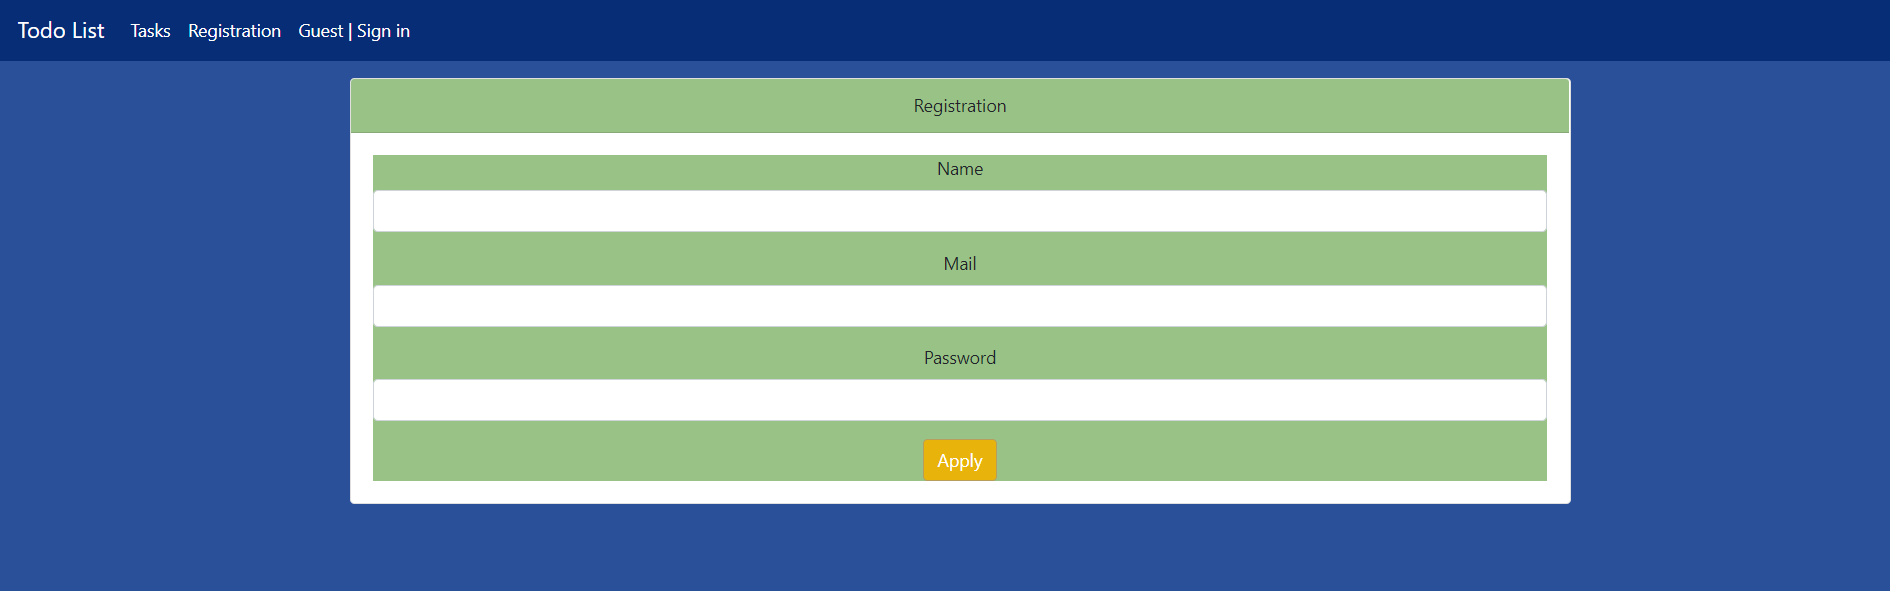
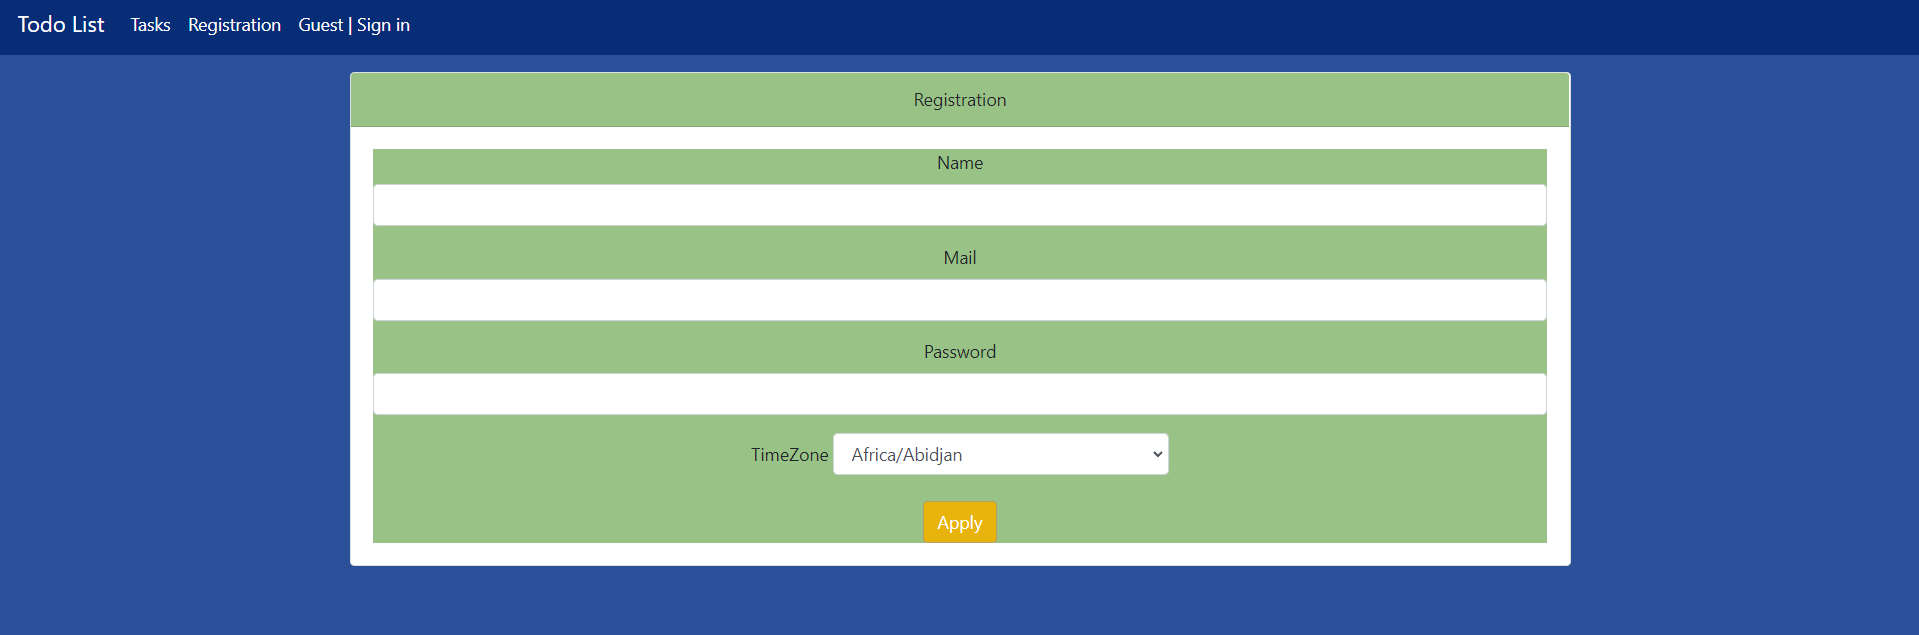
5. Date [#331992 #356708]

diff --git a/src/main/resources/templates/registration.html b/src/main/resources/templates/registration.html
@@ -70,16 +70,25 @@
                 </div>
                 <form th:action="@{/registration}" method="POST" style="background: #99c286">
                     <div class="form-group">
-                        <label>Name</label>
-                        <input type="text" class="form-control" name="name">
+                        <label for="name">Name</label>
+                        <input type="text" class="form-control" name="name" id="name">
                     </div>
                     <div class="form-group">
-                        <label>Mail</label>
-                        <input type="text" class="form-control" name="email">
+                        <label for="email">Mail</label>
+                        <input type="text" class="form-control" name="email" id="email">
                     </div>
                     <div class="form-group">
-                        <label>Password</label>
-                        <input type="text" class="form-control" name="password">
+                        <label for="password">Password</label>
+                        <input type="text" class="form-control" name="password" id="password">
+                    </div>
+                    <div class="form-group">
+                        <label>TimeZone</label>
+                        <label>
+                            <select class="form-control"  name="zone" required>
+                                <option th:each="zone : ${timeZone}" th:value="${zone}"
+                                        th:text="${zone}"></option>
+                            </select>
+                        </label>
                     </div>
                     <button type="submit" class="btn btn-primary">Apply</button>
                 </form>

diff --git a/src/main/java/ru/job4j/todo/controller/UserController.java b/src/main/java/ru/job4j/todo/controller/UserController.java
@@ -3,16 +3,15 @@ package ru.job4j.todo.controller;
 import net.jcip.annotations.ThreadSafe;
 import org.springframework.stereotype.Controller;
 import org.springframework.ui.Model;
-import org.springframework.web.bind.annotation.GetMapping;
-import org.springframework.web.bind.annotation.ModelAttribute;
-import org.springframework.web.bind.annotation.PostMapping;
-import org.springframework.web.bind.annotation.RequestParam;
+import org.springframework.web.bind.annotation.*;
 import ru.job4j.todo.model.User;
 import ru.job4j.todo.service.UserService;
 
 import javax.servlet.http.HttpServletRequest;
 import javax.servlet.http.HttpSession;
+import java.util.ArrayList;
 import java.util.Optional;
+import java.util.TimeZone;
 
 @Controller
 @ThreadSafe
@@ -27,7 +26,12 @@ public class UserController {
 
     @GetMapping("/registration")
     public String addUser(Model model, HttpSession session) {
-        model.addAttribute("newUser", new User(0, VALUE, VALUE, VALUE));
+        var zones = new ArrayList<TimeZone>();
+        for (String timeId : TimeZone.getAvailableIDs()) {
+            zones.add(TimeZone.getTimeZone(timeId));
+        }
+        model.addAttribute("newUser", new User(0, VALUE, VALUE, VALUE, VALUE));
+        model.addAttribute("timeZone", zones.stream().map(TimeZone::getID).toList());
         sessions(model, session);
         return "registration";
     }

diff --git a/src/main/java/ru/job4j/todo/controller/ItemController.java b/src/main/java/ru/job4j/todo/controller/ItemController.java
@@ -14,6 +14,8 @@ import ru.job4j.todo.service.UserService;
 
 import javax.servlet.http.HttpSession;
 import java.time.LocalDateTime;
+import java.time.ZoneId;
+import java.time.format.DateTimeFormatter;
 import java.util.*;
 import java.util.concurrent.atomic.AtomicInteger;
 
@@ -58,14 +60,14 @@ public class ItemController {
     public String createItem(@ModelAttribute Item item,
                              @RequestParam(value = "category.id", required = false) List<Integer> categoriesId,
                              HttpSession session, Model model) {
+        User user = this.userService.findById(this.userId.get());
         Set<Category> categories = new HashSet<>();
         if (categoriesId != null) {
             categoriesId.forEach(value -> categories.add(this.categoryService.findById(value)));
             item.setCategory(categories);
         }
-        item.setCreated(LocalDateTime.now());
-        item.setUser(this.userService.findById(this.userId.get()));
-        this.service.create(item);
+        item.setUser(user);
+        this.service.create(item, user.getZone());
         sessions(model, session);
         return "items";
     }

diff --git a/src/main/java/ru/job4j/todo/repository/ItemRepository.java b/src/main/java/ru/job4j/todo/repository/ItemRepository.java
@@ -1,12 +1,16 @@
 package ru.job4j.todo.repository;
 
+import org.hibernate.Session;
 import org.hibernate.SessionFactory;
 import org.springframework.stereotype.Repository;
 import ru.job4j.todo.model.Item;
+import ru.job4j.todo.model.User;
 import ru.job4j.todo.util.SessionWrapper;
 
 import java.util.List;
 import java.util.NoSuchElementException;
+import java.util.Optional;
+import java.util.TimeZone;
 
 @Repository
 public class ItemRepository {
@@ -19,9 +23,15 @@ public class ItemRepository {
         this.factory = factory;
     }
 
-    public void create(Item item) {
-        SessionWrapper.wrap(session ->
-                session.save(item), factory);
+    public void create(Item item, String timeZone) {
+        try {
+            SessionWrapper.zoneWrap(
+                    session -> session.save(item),
+                    factory, timeZone
+            );
+        } catch (Exception e) {
+            e.printStackTrace();
+        }
     }
 
     public List<Item> findAll() {

diff --git a/src/main/java/ru/job4j/todo/util/SessionWrapper.java b/src/main/java/ru/job4j/todo/util/SessionWrapper.java
@@ -4,12 +4,24 @@ import org.hibernate.Session;
 import org.hibernate.SessionFactory;
 import org.hibernate.Transaction;
 
+import java.util.TimeZone;
 import java.util.function.Function;
 
 public class SessionWrapper {
 
     public static <T> T wrap(Function<Session, T> command, SessionFactory sf) {
         final Session session = sf.openSession();
+        return wrap(command, session);
+    }
+
+    public static <T> void zoneWrap(Function<Session, T> command, SessionFactory sf, String timeZone) {
+        final Session session = sf.withOptions()
+                .jdbcTimeZone(TimeZone.getTimeZone(timeZone))
+                .openSession();
+        wrap(command, session);
+    }
+
+    private static <T> T wrap(Function<Session, T> command, Session session) {
         final Transaction transaction = session.beginTransaction();
         try {
             T rsl = command.apply(session);

diff --git a/src/main/java/ru/job4j/todo/repository/UserRepository.java b/src/main/java/ru/job4j/todo/repository/UserRepository.java
@@ -20,9 +20,8 @@ public class UserRepository {
 
     public Optional<User> create(User user) {
         try {
-            User finalUser = (User) SessionWrapper.wrap(session ->
-                    session.save(user), factory);
-            return Optional.of(finalUser);
+            SessionWrapper.zoneWrap(session -> session.save(user), factory, user.getZone());
+            return Optional.of(user);
         } catch (Exception e) {
             return Optional.empty();
         }

diff --git a/src/main/java/ru/job4j/todo/model/User.java b/src/main/java/ru/job4j/todo/model/User.java
@@ -7,7 +7,8 @@ import lombok.EqualsAndHashCode;
 import lombok.NoArgsConstructor;
 
 import javax.persistence.*;
-import java.io.Serializable;
+
+
 @Data
 @EqualsAndHashCode(onlyExplicitlyIncluded = true)
 @NoArgsConstructor
@@ -22,4 +23,5 @@ public class User {
     private String name;
     private String email;
     private String password;
+    private String zone;
 }

diff --git a/src/main/java/ru/job4j/todo/repository/PriorityRepository.java b/src/main/java/ru/job4j/todo/repository/PriorityRepository.java
@@ -12,7 +12,6 @@ import java.util.List;
 public class PriorityRepository {
 
     private static final String SELECT_ALL_QUERY = "from Priority i order by i.id";
-    private static final String SELECT_BY_ID_QUERY = "from Priority i where i.id = :Id";
     private final SessionFactory factory;
 
     public PriorityRepository(SessionFactory factory) {

diff --git a/src/main/java/ru/job4j/todo/service/ItemService.java b/src/main/java/ru/job4j/todo/service/ItemService.java
@@ -21,8 +21,8 @@ public class ItemService {
         this.item = item;
     }
 
-    public void create(Item item) {
-        this.item.create(item);
+    public void create(Item item, String timeZone) {
+        this.item.create(item, timeZone);
     }
 
     public List<Item> findAllByFilter(FilterOptions filter) {

diff --git a/src/main/java/ru/job4j/todo/model/Item.java b/src/main/java/ru/job4j/todo/model/Item.java
@@ -26,7 +26,7 @@ public class Item {
     private User user;
     private String name;
     private String description;
-    private LocalDateTime created;
+    private LocalDateTime created = LocalDateTime.now();
     private boolean done;
     @ManyToMany
     @JoinTable(
